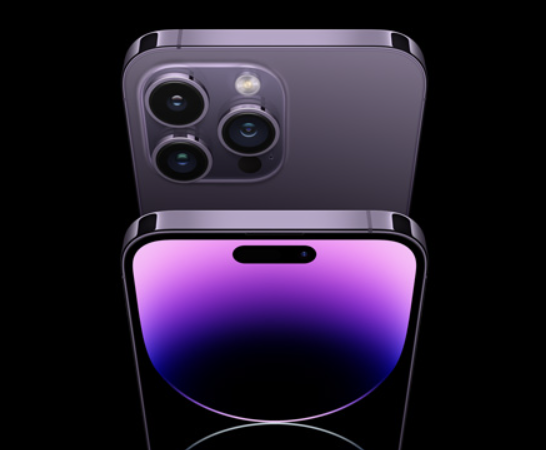
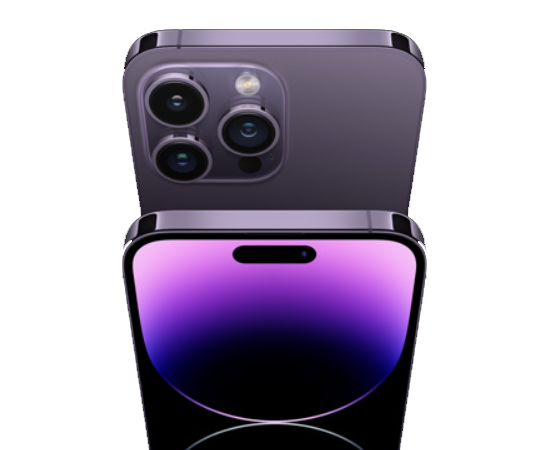
Ajustes del contenido y del navbar

diff --git a/secciones.css b/secciones.css
@@ -1,16 +1,19 @@
 @import url('https://fonts.googleapis.com/css2?family=Ubuntu:wght@300;400;500;700&display=swap');
 .seccion0{
-    padding: 2rem;
+    padding-top: 10rem;
+    padding-bottom: 3rem;
+    margin-bottom: -3rem;
     color: white;
     display: flex;
     flex-direction: column;
     align-items: center;
-    background-color: black;
     font-size: 1.4rem;
+    background: rgb(0,0,0);
+    background: radial-gradient(circle, rgba(0,0,0,1) 0%, rgba(34,30,44,1) 14%, rgba(0,0,0,1) 53%, rgba(0,0,0,1) 64%, rgba(0,0,0,1) 100%); 
 }
 .seccion0>.comprarahora{
     font-size: 1rem;
-    background:linear-gradient(to right, black,rgb(60, 47, 60));
+    background:linear-gradient(to right, black,rgb(70, 65, 101));
     border-radius: 1rem;
     padding: 1rem;
     margin-top: 2rem;
@@ -18,41 +21,126 @@
     text-decoration: none;
     font-weight: 100;
 }
-.seccion1{
-    color: white;
+.seccion0 img{
+    padding: 2rem;;
+    width: 50%;
+}
+.seccion2top{
+    background: #639DCF;
+    background: linear-gradient(to right, #79bffc 30%, #ff0000 100%);
+    -webkit-background-clip: text;
+    -webkit-text-fill-color: transparent;
+    padding-top: 3rem;
     display: flex;
     flex-direction: column;
     align-items: center;
-    background-color: black;
-    padding: 3rem;
-    font-size: 2rem;
-    background-image: url(/img/iphone2.png);
-    background-position: center;
-    height: 19rem;
-    background-repeat: no-repeat;
+    font-size: 1.5rem;
 }
 .seccion2{
+    color: #fbfbfd;
     font-size: 1.4rem;
     display: flex;
     flex-direction: column;
     align-items: center;
-    background-color: #fbfbfd;
-    padding-top: 3rem;
+
 }
-.seccion2>.links2{
+.links2{
     display:flex;
     flex-direction: row;
     align-items: center;
     justify-content: center;
     font-size: 1.4rem;
-
+    background-color: #000000;
 }
-.seccion2>.links2>a{
+.links2>a{
+    padding: 1rem;
     font-size: 1rem;
     margin: 1rem;
-    color: rgb(70, 115, 248);
+    color: rgb(255, 255, 255);
+    transition: 200ms;
+    background:linear-gradient(to right, black,rgb(70, 65, 101));
+    border-radius: .4rem;
+}
+.links2>a:hover{
+    background:linear-gradient(to right, black,rgb(99, 91, 148));
+    color: #fbfbfd;
+    text-decoration: none;
+    border-radius: 1rem;
+    transition: 200ms;
 }
 .seccion2 img{
     margin-top: 2rem;
-    width: 100%;
+    width: 80%;
+    border-radius: 1rem;
+}
+.capacidad{
+    display: flex;
+    flex-direction: row;
+    align-items: center;
+    justify-content: space-around;
+    margin: 2rem;
+    font-size: 1rem;
+}
+.capacidad ul{
+    margin-left: 2rem;
+    list-style: none;
+    color: rgb(103, 103, 103);
+    border-left:solid rgb(127, 127, 127) 2px ;
+}
+.seccion3{
+    color: #fbfbfd;
+    display: flex;
+    flex-direction: column;
+    align-items: center;
+}
+.text{
+    padding:2rem;
+    font-size: 1rem;
+    font-weight: 100;
+    text-shadow: 1px 1px 8px rgba(255, 255, 255, 0.562);
+}
+.dimensiones{
+    display: flex;
+    flex-direction: row;
+    align-items: center;
+    justify-content: space-around;
+    margin: 2rem;
+    font-size: 1rem;
+}
+.dimensiones ul{
+    margin-left: 2rem;
+    list-style: none;
+    color: rgb(194, 194, 194);
+    border-left:solid rgb(127, 127, 127) 2px ;
+}
+@media screen and (min-width:768px){
+    .seccion0{
+        font-size: 2.4rem;
+    }
+    .seccion0 img{
+        width: 35rem;
+    }
+    .seccion2top{
+        font-size: 2rem;
+  
+    }
+    .seccion2{
+        flex-direction:row;
+        justify-content: center;
+        align-items: center;
+    }
+    .seccion2 img{
+        width:40%;
+        align-self: flex-start;
+        margin-right: 2rem;
+    }
+    .seccion2-1{
+        display: flex;
+        flex-direction: column;
+    }
+    .capacidad{
+        flex-shrink: 0;
+        font-size: 1rem;
+        width:fit-content;
+    }
 }

diff --git a/index.html b/index.html
@@ -47,23 +47,44 @@
         <h2>iPhone 14 Pro</h2>
         <p>Pro. Muy Pro</p>
         <a class="comprarahora" href="https://www.apple.com/es/shop/buy-iphone/iphone-14">Comprar ahora</a>
+        <img src="/img/iphone2.png" alt="">
     </div>
-    <div class="seccion1">
-    </div>
-    <div class="seccion2">
+    <div class="seccion2top">
         <h2>Iphone 14</h2>
         <p>Grande y grandullón</p>
-        <div class="links2">
-            <a href="#">Más información ></a>
-            <a href="#">Comprar ></a>
-        </div>
-        <img src="/img/iphone3.jpg.crdownload" alt="">
     </div>
-    
-
-
-
-
+    <div class="seccion2">
+        <img src="/img/iphone3.jpg.crdownload" alt="">
+        <div class="seccion2-1">
+            <div class="capacidad">
+                <h2>Capacidad</h2>
+                <ul>
+                    <li>128 Gb</li>
+                    <li>256 Gb</li>
+                    <li>512 Gb</li>
+                </ul>
+            </div>
+            <div class="links2">
+                <a href="#">Más información ></a>
+                <a href="#">Comprar ></a>
+            </div>
+        </div>
+        
+    </div>
+    <div class="seccion3">
+        <div class="text">
+            <p>El Apple iPhone 14 Pro debuta este año con una pantalla OLED de 6.1 pulgadas con funcionalidad always-on y un nuevo notch que se integra a las notificaciones llamado Isla Dinámica. El iPhone 14 Pro utiliza el nuevo procesador Apple A16 Bionic con almacenamiento de hasta 1TB y cuenta con una cámara triple posterior con sensor principal de 48MP estabilizado, junto con una cámara ultrawide de 12MP y un sensor telefoto de 12MP con zoom óptico 3x. Las características del iPhone 14 Pro se completan con unos parlantes stereo, carga inalámbrica, resistencia al polvo y agua, sistema de mensajería de emergencia por satélite y corre el nuevo iOS 16.</p>
+        </div>
+        <div class="dimensiones">
+            <h2>Dimensiones y peso</h2>
+            <ul>
+                <li>Ancho: 7,14 cm</li>
+                <li>Alto: 14,75 cm</li>
+                <li>Grosor: 0,78 cm</li>
+                <li>Peso: 206 g</li>
+            </ul>
+        </div>
+    </div>
 
 
     <script languague="javascript">

diff --git a/navbar.css b/navbar.css
@@ -4,7 +4,7 @@
     margin:0;
 }
 body{
-    background-color: rgb(40, 40, 40);
+    background-color: rgb(0, 0, 0);
 }
 .navbar{
     background-color: white;
@@ -12,8 +12,9 @@ body{
     flex-direction: row;
     align-items: center;
     justify-content: space-between;
-    padding:1rem;
-    position:sticky;
+    position:fixed;
+    width: 100%;
+    z-index: 1;
 }
 .navbar-left{
     display:contents;
@@ -28,6 +29,7 @@ body{
 }
 .navbar-left img{
     width: 3rem;
+    margin: 1rem;
 }
 .navbar-search{
     background-color: #ffffff;
@@ -45,6 +47,7 @@ body{
     color: #ffffff;
 }
 .navbar-right{
+    padding: 1rem;
     display:flex;
     align-items: center;
     flex-direction: row;
